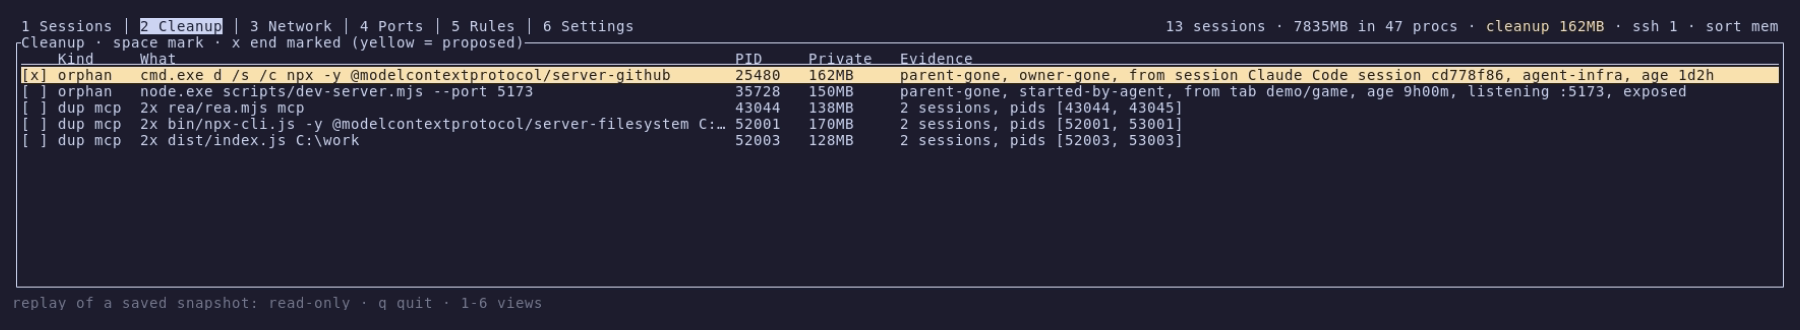
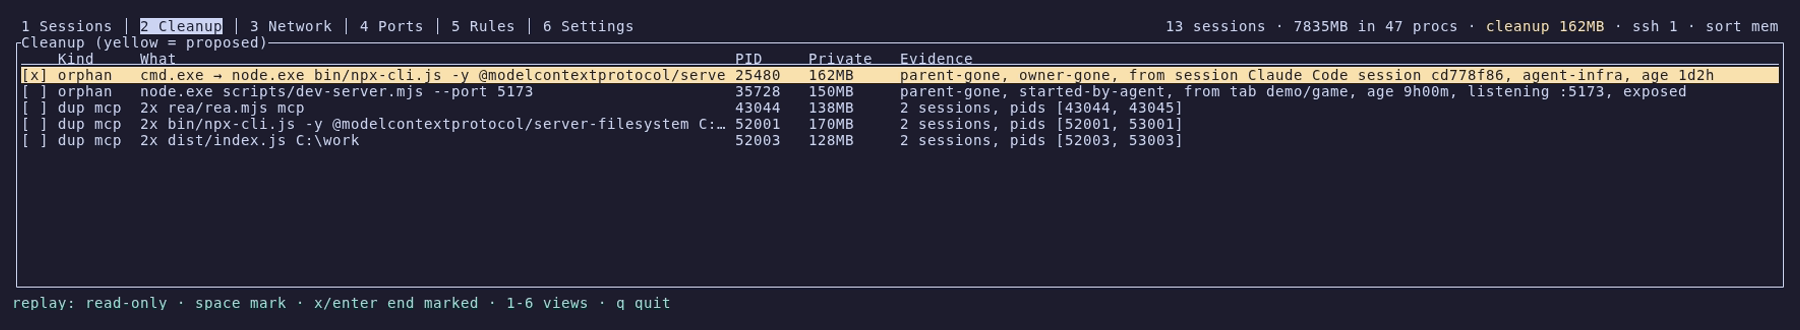
Refresh the README screens for 0.5.0
The sample snapshot now records its core count and has two tabs in one worktree,
so the screens show both changes. Replays list the view's keys after the
read-only note, since folding, sorting and details work there too.

The Sessions tape waits after its last screenshot, which could otherwise be lost.

diff --git a/crates/core/tests/fixture.rs b/crates/core/tests/fixture.rs
@@ -34,7 +34,7 @@ fn groups_sessions_by_host_and_orca_tab() {
         .iter()
         .find(|g| g.kind == GroupKind::Known("orca".into()))
         .unwrap();
-    assert_eq!(orca.tabs.len(), 11);
+    assert_eq!(orca.tabs.len(), 10, "two tabs share a worktree");
     assert_eq!(orca.host_pids.len(), 8);
     assert_eq!(session_count(&m, "orca", "claude"), 5);
     assert_eq!(session_count(&m, "orca", "codex"), 4);
@@ -43,9 +43,10 @@ fn groups_sessions_by_host_and_orca_tab() {
     assert!(orca.tabs.iter().all(|t| t.key.starts_with("orca:")));
 
     let tab = orca.tabs.iter().find(|t| t.label == "acme/web-app").unwrap();
-    assert_eq!(tab.sessions[0].root_pid, 33472);
+    assert_eq!(tab.sessions.len(), 2, "two tabs of one worktree");
+    let session = tab.sessions.iter().find(|s| s.root_pid == 33472).unwrap();
     assert_eq!(
-        tab.sessions[0].session_id.as_deref(),
+        session.session_id.as_deref(),
         Some("849478ea-950d-559b-8007-9eea0990a450")
     );
 }

diff --git a/crates/app/src/tui.rs b/crates/app/src/tui.rs
@@ -974,7 +974,7 @@ impl App {
         let common = t(lang, "1-6 views · q quit", "1-6 화면 · q 종료");
         if self.replay {
             let replay = t(lang, "replay: read-only", "재생 중: 읽기 전용");
-            format!("{replay} · {common}")
+            format!("{replay} · {view} · {common}")
         } else {
             format!("{view} · {common}")
         }
@@ -2773,7 +2773,12 @@ mod tests {
             .unwrap()
             .root_pids[0];
         let confirm = app.confirm.as_ref().unwrap();
-        assert_eq!(confirm.plan.targets.first().unwrap().pid, 33472);
+        for session in [33472, 17488] {
+            assert!(
+                confirm.plan.targets.iter().any(|t| t.pid == session),
+                "tabs of one worktree end together: {session}"
+            );
+        }
         assert!(
             confirm.plan.targets.iter().all(|t| t.pid != shell),
             "the tab's shell stays"

diff --git a/README.ko.md b/README.ko.md
@@ -55,6 +55,8 @@ agentlens는 모든 프로세스에 대해 **누구의 것인가, 그 주인이 
 
 ![세션 화면(한국어)](docs/images/sessions-ko.png)
 
+CPU%는 시스템 전체를 100으로 계산하고, 하단 줄에는 현재 화면의 단축키가 표시됩니다.
+
 | 정리: 후보와 판정 근거 | 포트: 누가 어디서 대기 중인지 |
 |---|---|
 | ![정리 화면](docs/images/cleanup.png) | ![포트 화면](docs/images/ports.png) |

diff --git a/README.md b/README.md
@@ -61,7 +61,8 @@ behind from evidence rather than names, and ends them only when it is safe to.
 
 ## Screenshots
 
-**Sessions**: what each agent runs, grouped by host and tab, with memory, CPU and state.
+**Sessions**: what each agent runs, grouped by host and tab, with memory, CPU and state. CPU%
+counts the whole machine as 100, and the footer lists the keys of the current view.
 
 ![Sessions view](docs/images/sessions.png)
 
